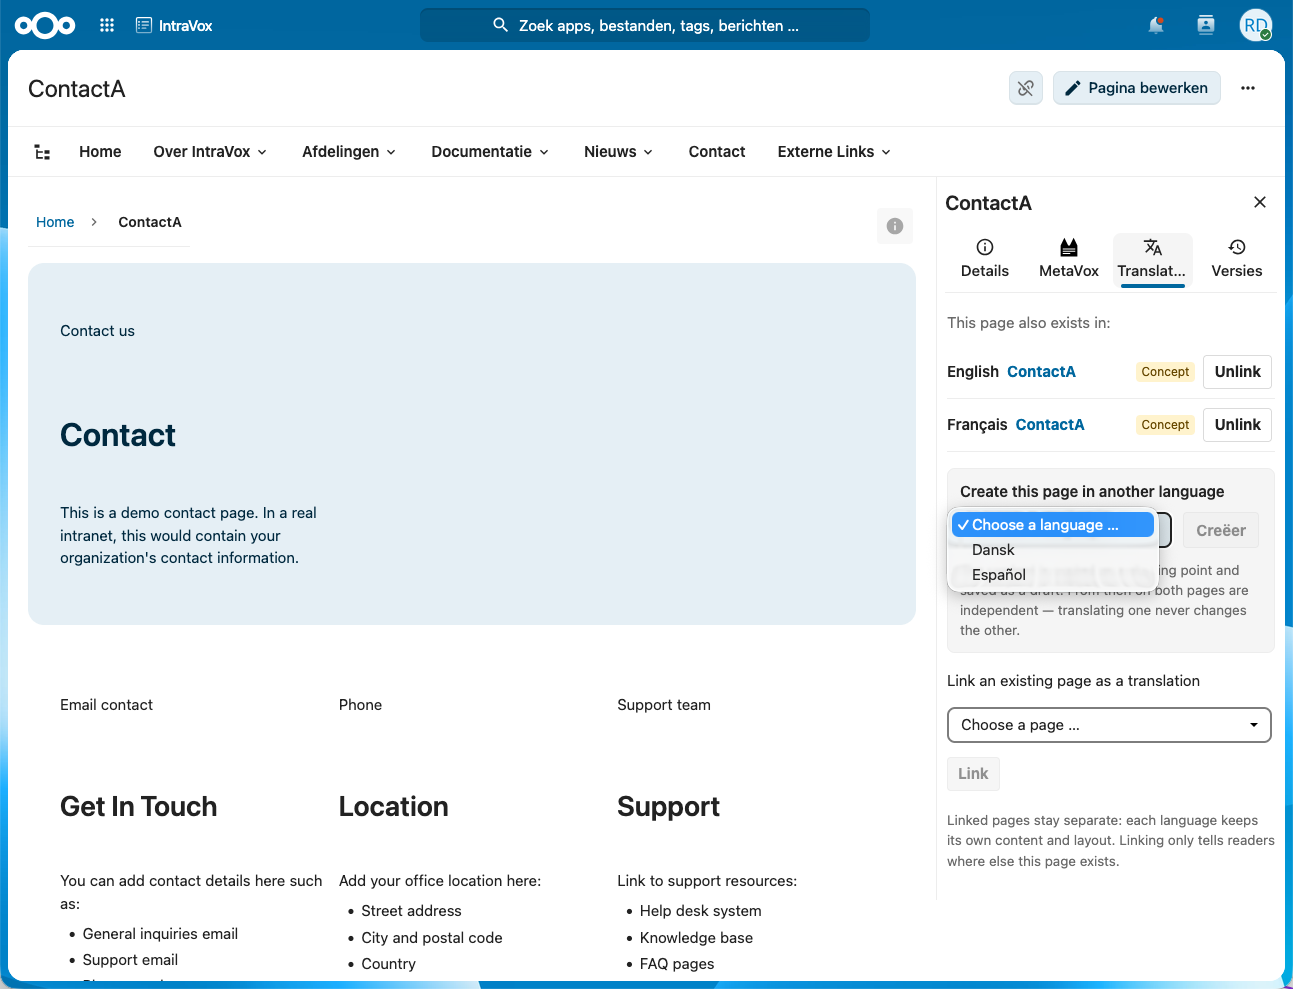
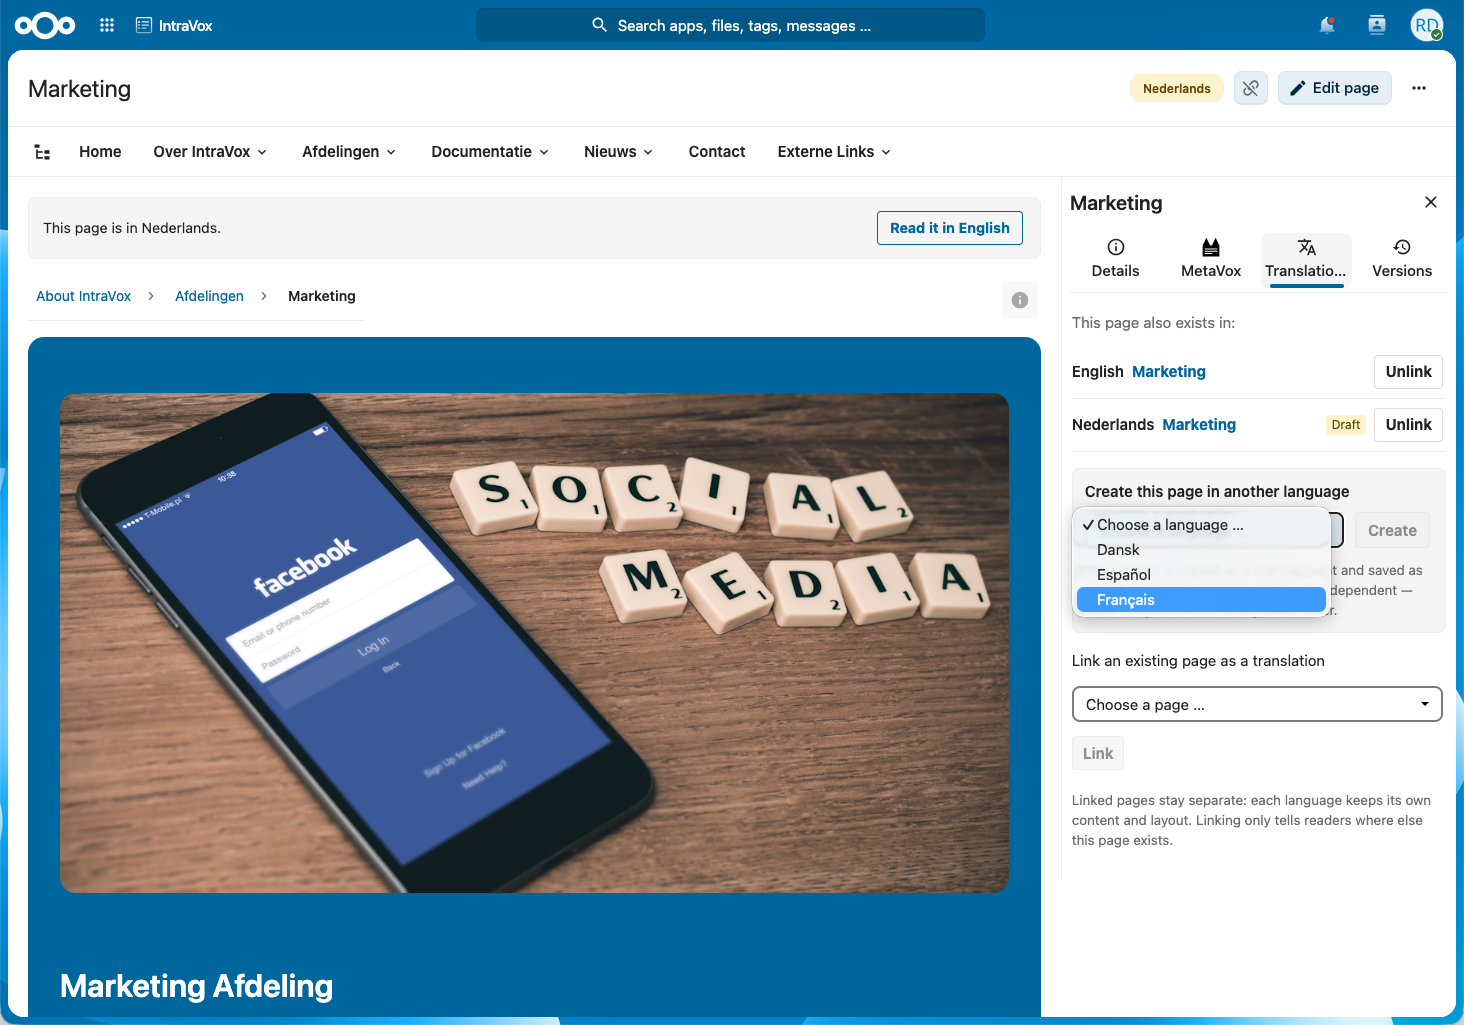
docs: 2.0 screenshots — translations, reader notice, tree placeholder, MetaVox parity
Five shots for the docs and App Store: the Translations tab with the
create flow, the link picker, the reader notice with its one-click
switch, a placeholder level in the French tree with the translation
underneath, and a side-by-side of the same file's MetaVox fields in
IntraVox and the Files app — proving the parity claim, Save button
absent in both untouched forms.

The create shot shows the language dropdown open, which covers the
missing-ancestors hint; the alt text no longer claims it is visible.

diff --git a/docs/user/editor.nl.md b/docs/user/editor.nl.md
@@ -769,7 +769,7 @@ IntraVox/
 1. Kies een taal onder **Maak deze pagina in een andere taal**
 2. Klik op **Aanmaken**
 
-![De tab Vertalingen: gekoppelde versies, aanmaken-in-een-andere-taal en de melding over ontbrekende bovenliggende pagina's](../../screenshots/translations-create.png)
+![De tab Vertalingen: gekoppelde versies en aanmaken-in-een-andere-taal](../../screenshots/translations-create.png)
 
 De inhoud wordt als startpunt gekopieerd — inclusief de afbeeldingen van de pagina — en als **concept** opgeslagen op dezelfde plek in de boom van de doeltaal. Vanaf dat moment zijn beide pagina's volledig onafhankelijk: de één vertalen verandert nooit de ander. De nieuwe pagina wordt automatisch aan de bron gekoppeld, zodat lezers van beide versies de ander kunnen vinden.
 

diff --git a/docs/user/editor.md b/docs/user/editor.md
@@ -727,7 +727,7 @@ IntraVox/
 1. Pick a language under **Create this page in another language**
 2. Click **Create**
 
-![The Translations tab: linked versions, create-in-another-language and the missing-ancestors hint](../../screenshots/translations-create.png)
+![The Translations tab: linked versions and create-in-another-language](../../screenshots/translations-create.png)
 
 The content is copied as a starting point — including the page's images — and saved as a **draft** in the same position in the target language's tree. From then on both pages are fully independent: translating one never changes the other. The new page is linked to the source automatically, so readers of either version can find the other.
 
